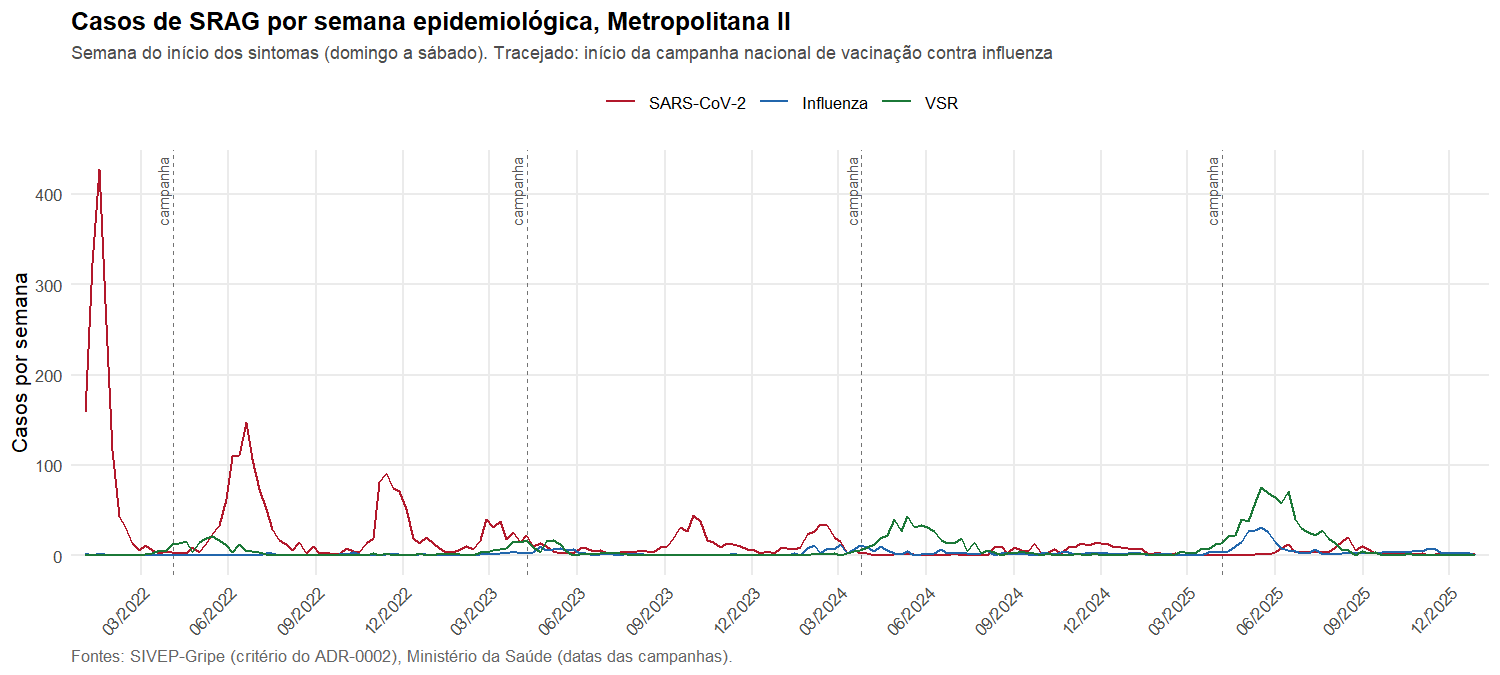
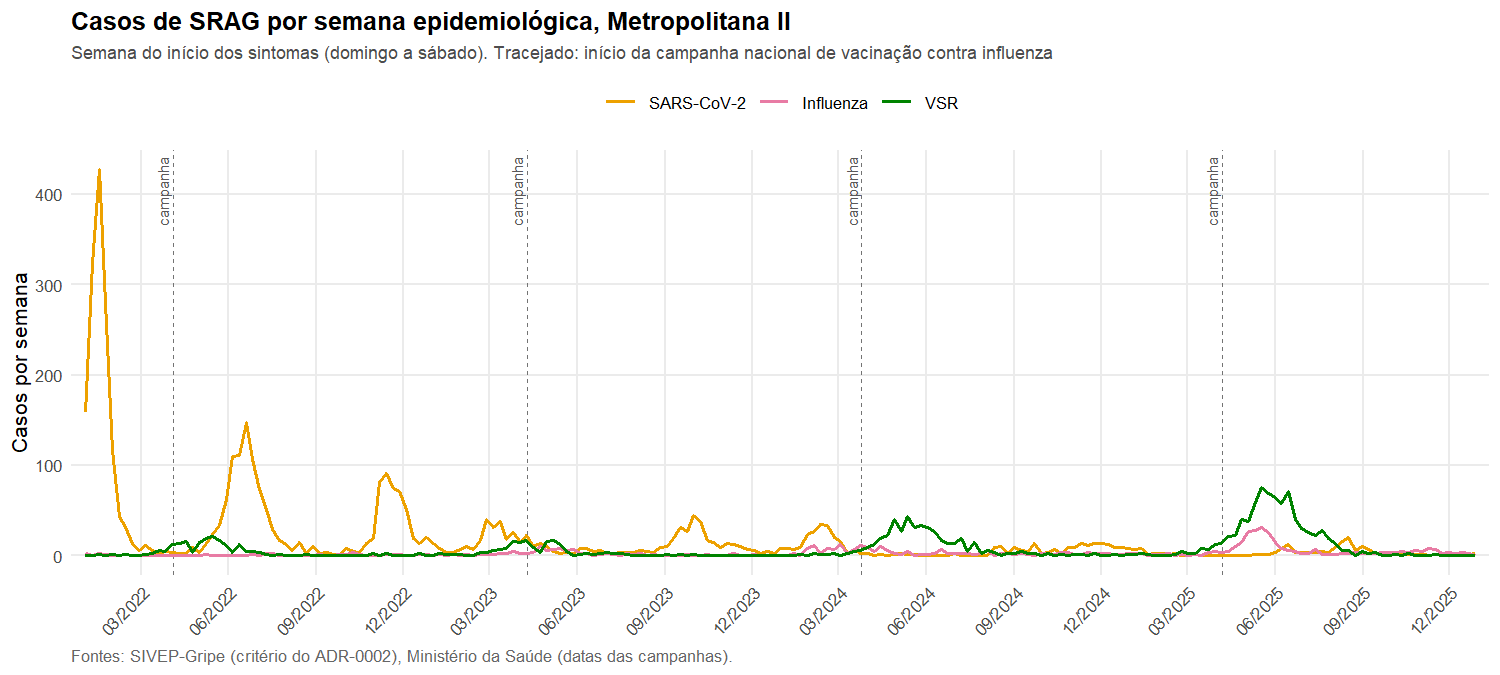
CS-046: paleta única por vírus, sem colisão com o LISA
Cada vírus tem uma cor em todos os gráficos (SARS-CoV-2 amarelo,
influenza magenta, VSR verde) e uma rampa própria nos mapas de
incidência; o LISA usa vermelho, azul, roxo e cinza, sem nenhuma cor de
vírus. Cores validadas contra daltonismo e visão normal; constantes só
em funcoes_mapas.R, com teste que impede cor escrita à mão. Guia de
cores no relatório. Suíte 683/683 em 22 arquivos.

diff --git a/docs/BACKLOG.md b/docs/BACKLOG.md
@@ -110,7 +110,6 @@ D-06, D-08, D-09, D-10 e a opção do CS-039). **Só a D-02 (prazo) continua abe
 
 | ID | Título | Evidência | Modelo · Esforço | Aceite |
 |---|---|---|---|---|
-| CS-046 | **Paleta única por vírus e sem colisão com o LISA** — hoje o vermelho é SARS-CoV-2 nas séries e Alto-Alto no LISA, e o azul é influenza nas séries e Baixo-Baixo no LISA; `magma` em todos os mapas de incidência. Definir uma cor fixa por agente (séries, dispersões, faixas dos painéis, painel Shiny), uma escala sequencial de incidência por agente e uma paleta do LISA que não reutilize as cores dos vírus; registrar em `R/funcoes_mapas.R` como constantes únicas e no relatório (legenda-guia) | pedido da analista; `PALETA_LISA`, `funcoes_series.R:78`, `06_visualizacoes.R:114` | Opus · medium | 1 constante `CORES_AGENTE` usada em 100 % dos gráficos (grep); 0 cores compartilhadas entre vírus e classes LISA; contraste conferido (skill dataviz); mapas e painel regerados |
 | CS-047 | **Revisão dos modelos de gráfico** — para cada figura do relatório (12 + painéis, séries, dispersões, barras com eixo duplo da maturação, gráfico de leitos), responder se a forma é a mais adequada ao que se quer mostrar, propor a troca quando não for (ex.: eixo duplo → dois painéis; dispersão com 92 pontos → identificar extremos) e aplicar; documento curto com a decisão por figura | pedido da analista | Fable · medium (crítica + execução, pequena) | `docs/revisao-graficos.md` com 1 linha por figura (mantida/trocada/por quê); figuras trocadas regeradas; teste de figuras do relatório verde |
 | CS-048 | **Revisão dos casos entre versões do banco** — a analista observa que fichas mudam depois do "lançamento". Medir (a) dentro de cada banco: dias entre início dos sintomas e encerramento (`DT_ENCERRA`) e digitação (`DT_DIGITA`), proporção encerrada em 30/60/90 dias, por ano; (b) entre versões: função `comparar_versoes()` que, dado um snapshot anterior e um novo do mesmo ano, conta fichas do RJ acrescentadas, removidas e com `CLASSI_FIN`/agente alterado — hoje só existe a versão 14-09-2026 do banco de 2025 no portal (conferido em 2026-09-26), então (b) roda na 1ª atualização; seção no relatório | pedido da analista; ADR-0001 (banco vivo); CS-035 (não encerradas) | Opus · medium | tabela por ano (mediana e p90 de dias até encerrar; % em 30/60/90 d); função testada com 2 snapshots sintéticos; nota no relatório sobre o que muda entre versões |
 | CS-049 | **População: explicação didática e fórmulas no texto** — o Censo não é anual: escrever, na proposta v2 §3.4 e no relatório, como cada denominador foi obtido — Censo 2022 (contagem), estimativas IBGE 2024/2025 (método do IBGE, com fonte), 2023 por interpolação linear nas datas de referência (fórmula com o peso 334/700), estrutura etária de 2022 aplicada aos outros anos (fórmula), com um exemplo numérico de um município | pedido da analista; ADR-0003; `docs/nota-metodologica-padronizacao.md` | Fable · medium (texto didático; método do IBGE conferido na nota técnica) | subseção "Como a população foi estimada" com 3 fórmulas e 1 exemplo numérico calculado pelo código; 0 números digitados; método do IBGE citado da nota metodológica oficial |
@@ -188,6 +187,7 @@ D-06, D-08, D-09, D-10 e a opção do CS-039). **Só a D-02 (prazo) continua abe
 | CS-038 | **Método de ajuste do IBGE citado** — Nota metodológica n. 01 das Estimativas 2024, p. 6–7: Censo 2022 ajustado pela PPE, maior ajuste em municípios grandes; citado no ADR-0003 e na proposta v2 | 2026-09-25 | idem |
 | CS-026 | **Repositório público** — histórico reescrito uma 2ª vez para trocar o e-mail pessoal dos 65 commits pelo endereço noreply do GitHub (hashes citados em documentos e mensagens trocados; mapa antigo → novo no release-history); ensaio num clone idêntico ao resultado real; e-mail `noreply` configurado no repositório; repositório público desde 2026-09-25, acesso anônimo HTTP 200, licença MIT reconhecida, `CITATION.cff` no repositório | 2026-09-25 | `docs/release-history/cs-026-publicacao.md` · commit `a5d5453` |
 | CS-025 | **CI no GitHub Actions** — 1ª execução verde depois que o repositório ficou público: run 36200764263, 1 min 55 s, 553 expectativas em 21 arquivos, 6 pulados (dados reais fora da CI); badge do README ativo | 2026-09-25 | `docs/release-history/cs-025-integracao-continua.md` · commit `a1796db` |
+| CS-046 | **Paleta única por vírus** — SARS-CoV-2 amarelo, influenza magenta, VSR verde em todos os gráficos; rampa de incidência por vírus; LISA vermelho/azul/roxo/cinza sem cor de vírus (antes 3 cores com dois significados, distância 0); constantes só em `funcoes_mapas.R`, teste impede cor escrita à mão; guia de cores no relatório. Suíte 683/683 em 22 arquivos | 2026-09-26 | `docs/release-history/cs-046-paleta-unica.md` · commit `(a registrar)` |
 
 ## Descartados
 

diff --git a/docs/release-history/cs-046-paleta-unica.md b/docs/release-history/cs-046-paleta-unica.md
@@ -1,0 +1,58 @@
+# CS-046 — Paleta única por vírus, sem colisão com o LISA
+
+- **Data:** 2026-09-26
+- **Modelo · esforço:** Opus · medium (acordado com o dono)
+- **Origem:** pedido da analista: "manter paleta de cores para todas as análises, padronizar também por
+  vírus para não causar confusão na interpretação dos painéis"
+
+## O problema medido
+
+Antes, o vermelho era SARS-CoV-2 nas séries e Alto-Alto no LISA; o azul, influenza nas séries e
+Baixo-Baixo no LISA; o verde, VSR nas séries e Baixo-Alto no LISA. Distância de cor entre esses
+pares: **0** (a mesma cor com dois significados). Os mapas de incidência dos três vírus usavam a
+mesma escala `magma`, então o mapa não dizia de qual vírus era.
+
+## A paleta nova
+
+| Uso | Cores |
+|---|---|
+| SARS-CoV-2 · Influenza · VSR | `#eda100` amarelo · `#e87ba4` magenta · `#008300` verde (posições 4, 5 e 6 da paleta categórica validada da skill dataviz) |
+| Incidência | uma rampa por vírus: quase branco → cor do vírus → tom escuro do mesmo matiz (interpolação em Lab) |
+| LISA | Alto-Alto vermelho, Baixo-Baixo azul (convenção GeoDa), Alto-Baixo roxo, Baixo-Alto cinza; tom claro = indicativo |
+| Marcas sem vírus | `#52514e` neutro (total de SRAG, histograma, proporção não encerrada) |
+
+Todas as cores ficam em `R/funcoes_mapas.R` (`CORES_AGENTE`, `rampa_agente()`, `PALETA_LISA`,
+`COR_NEUTRA`); o resto do código só as referencia.
+
+## Verificação com número
+
+| Critério de aceite | Resultado |
+|---|---|
+| 1 constante usada em 100 % dos gráficos | 0 cores escritas à mão e 0 `magma`/`viridis` fora de `funcoes_mapas.R` (teste; mutação: cor plantada é pega) |
+| 0 cores compartilhadas entre vírus e LISA | 0 hex em comum (teste); pior distância vírus × LISA 11,2 em visão normal (antes 0) |
+| Contraste conferido (validador da skill dataviz) | vírus entre si, todos os pares: 16,2 sob daltonismo (meta ≥ 8), 19,6 em visão normal (piso 15); LISA confirmado entre si: 9,5 e 15,5 |
+| Rampas | claridade estritamente decrescente nas 3 (teste com `farver`) |
+| Mapas e painel regerados | 38 mapas, 18 gráficos, painel Shiny usa a rampa do vírus; guia de cores novo no relatório |
+| Testes | 683/683 expectativas em 22 arquivos, 0 falhas (eram 661 em 21) |
+| Dados | nenhuma tabela mudou (só PNGs) |
+
+## Decisões
+
+- **LISA mantém vermelho e azul** (convenção que leitores de estatística espacial conhecem); os vírus
+  é que saíram dessas cores. Buscados 22 trios de vírus e 308 combinações de LISA; escolhido o trio
+  com a maior separação entre vírus, porque é o que aparece junto (séries, painéis).
+- **Contraste abaixo de 3:1** do amarelo (2,11) e do magenta (2,62) sobre branco: regra de alívio da
+  skill — linhas mais grossas (0,55 → 0,8), legenda sempre presente e a mesma série em tabela
+  (`serie_semanal.csv`).
+- Pior par vírus × LISA: magenta (influenza) × vermelho (Alto-Alto), 11,2 em visão normal. Os dois
+  nunca aparecem no mesmo gráfico: mapa LISA não tem cor de vírus.
+
+## Erros do caminho
+
+1. A 1ª proposta (laranja, violeta, verde-água + LISA com marrom) falhava: marrom × vermelho 1,6 sob
+   daltonismo. A busca sistemática substituiu a escolha a olho.
+2. O guia de cores saiu com rótulos sobre as cores e quadrados de larguras desiguais; corrigido e
+   conferido na imagem.
+3. Um teste terminava em `|| TRUE` (nunca falharia); trocado por uma verificação real da escala.
+4. No gráfico da suavização, a coluna de rótulo ia ser criada no próprio `anual`; passou para uma
+   cópia, para não vazar para os arquivos gravados.
